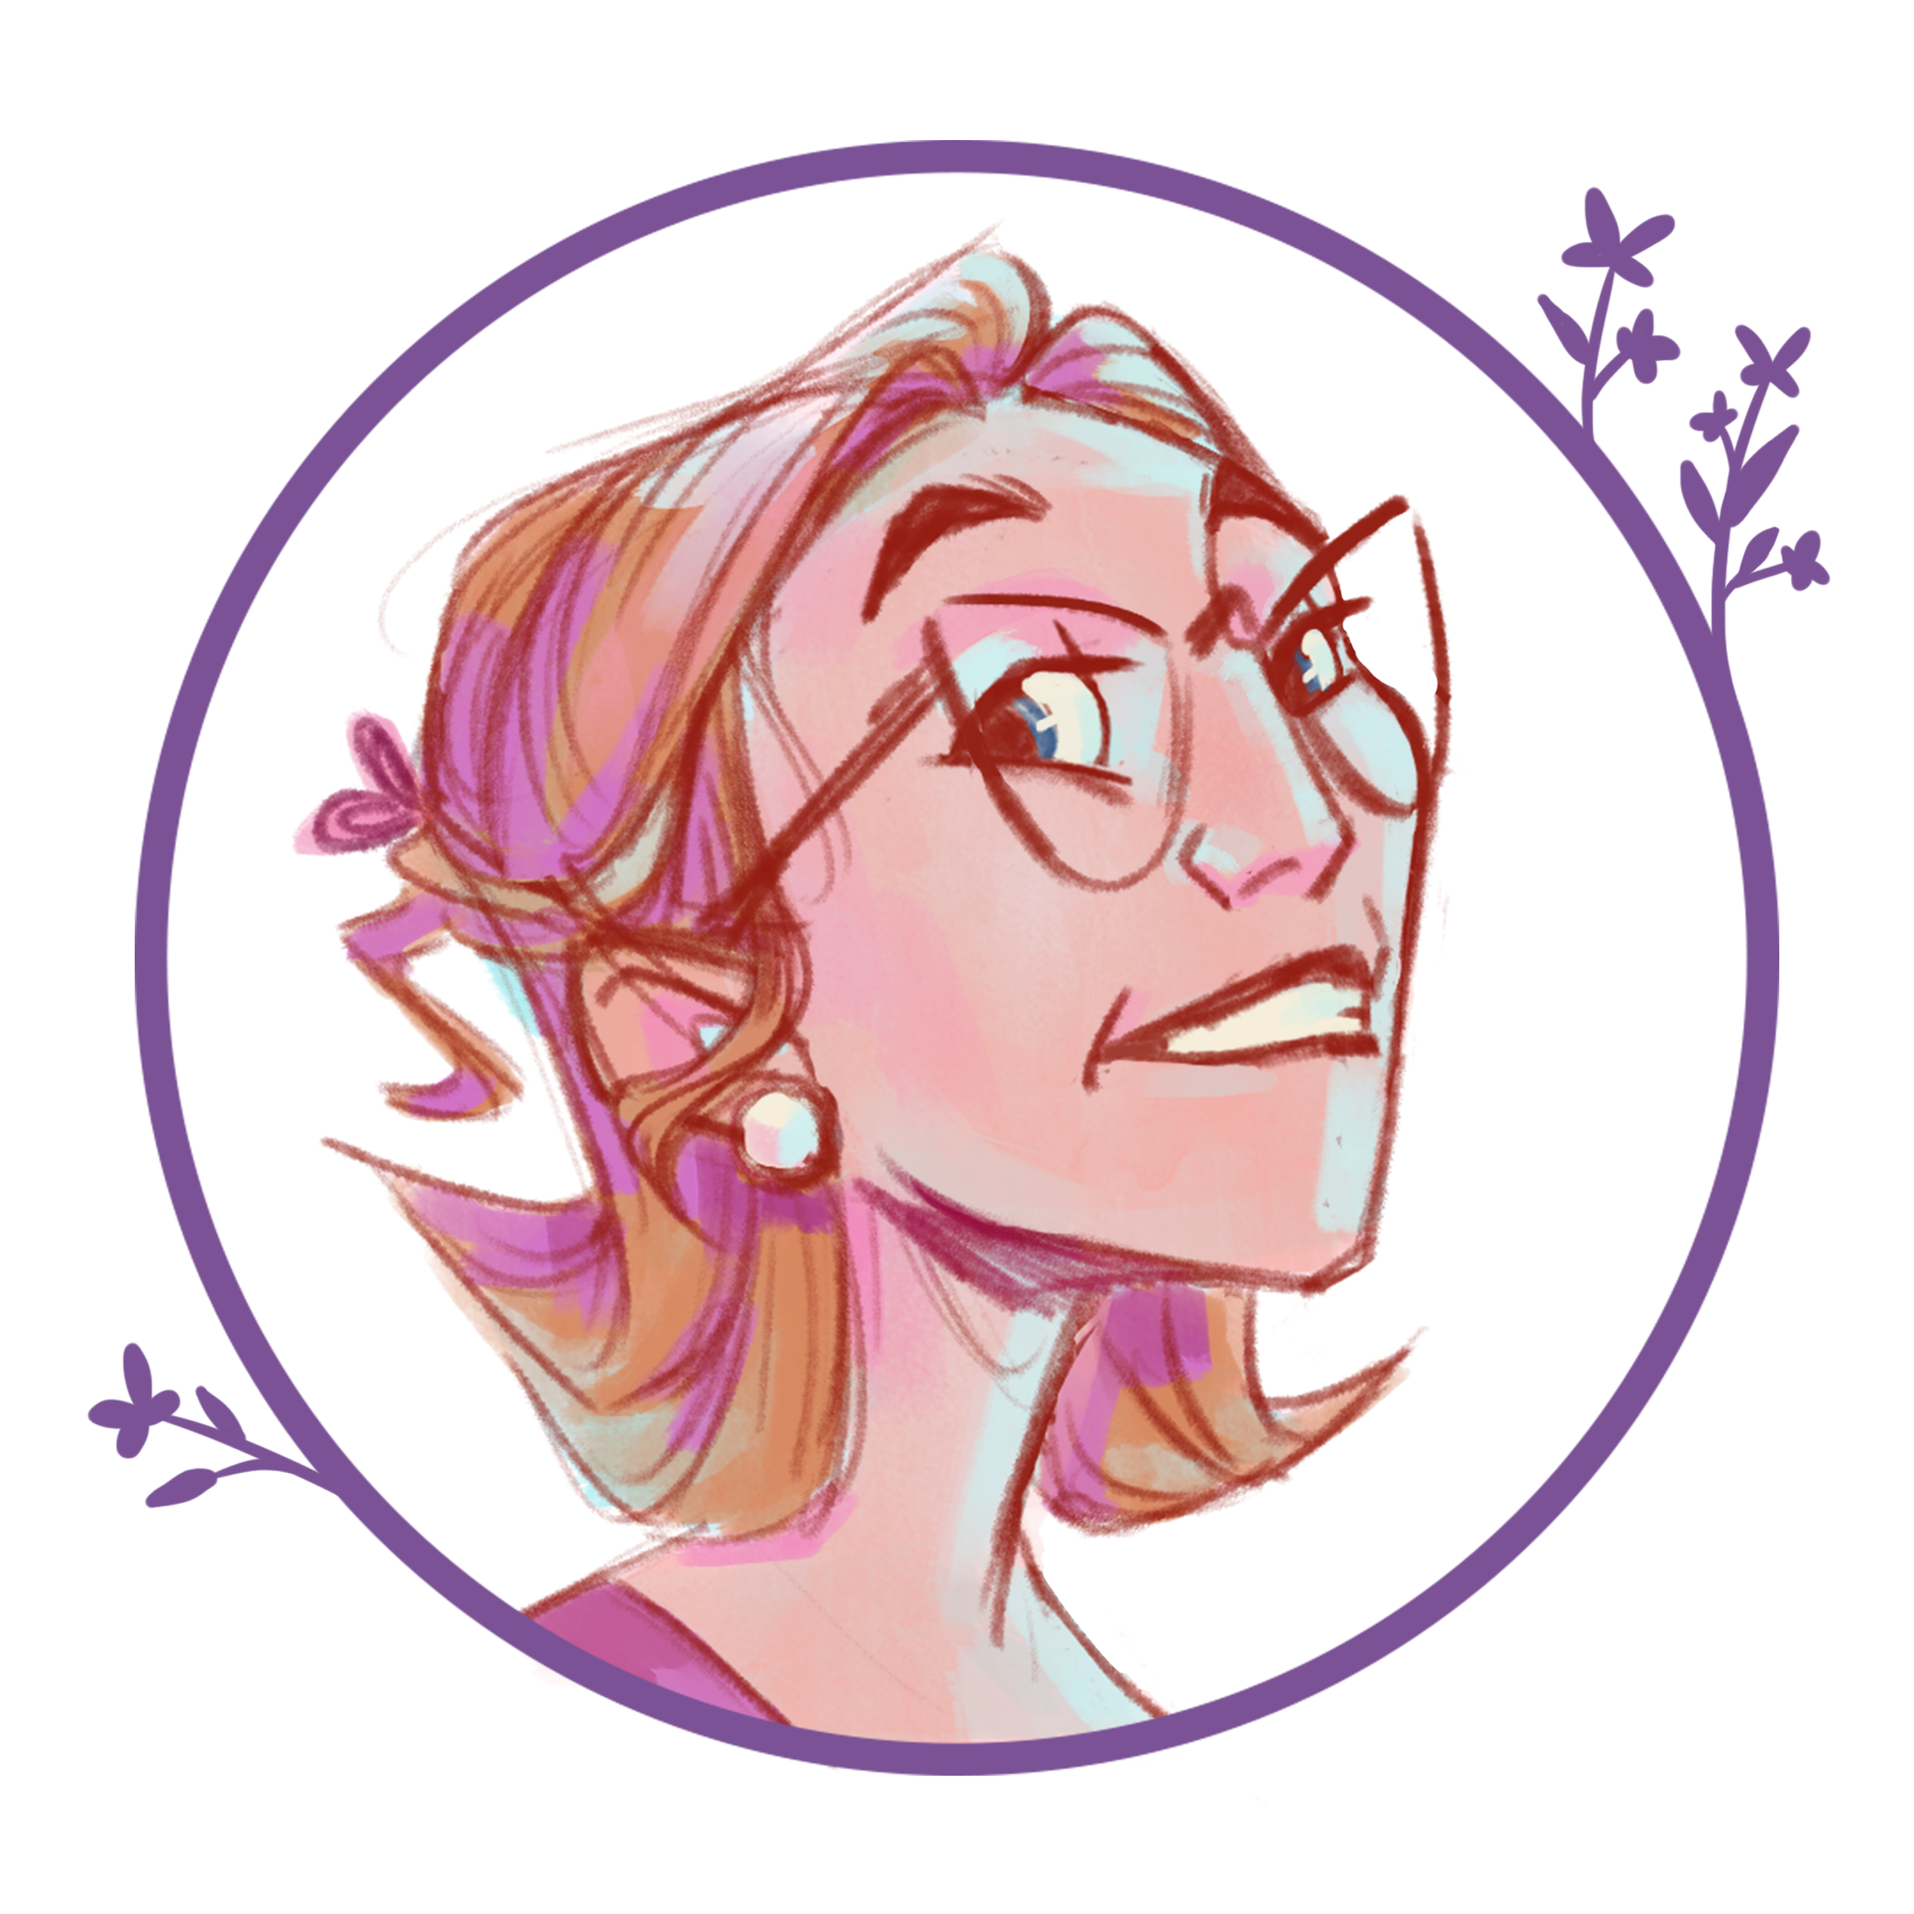
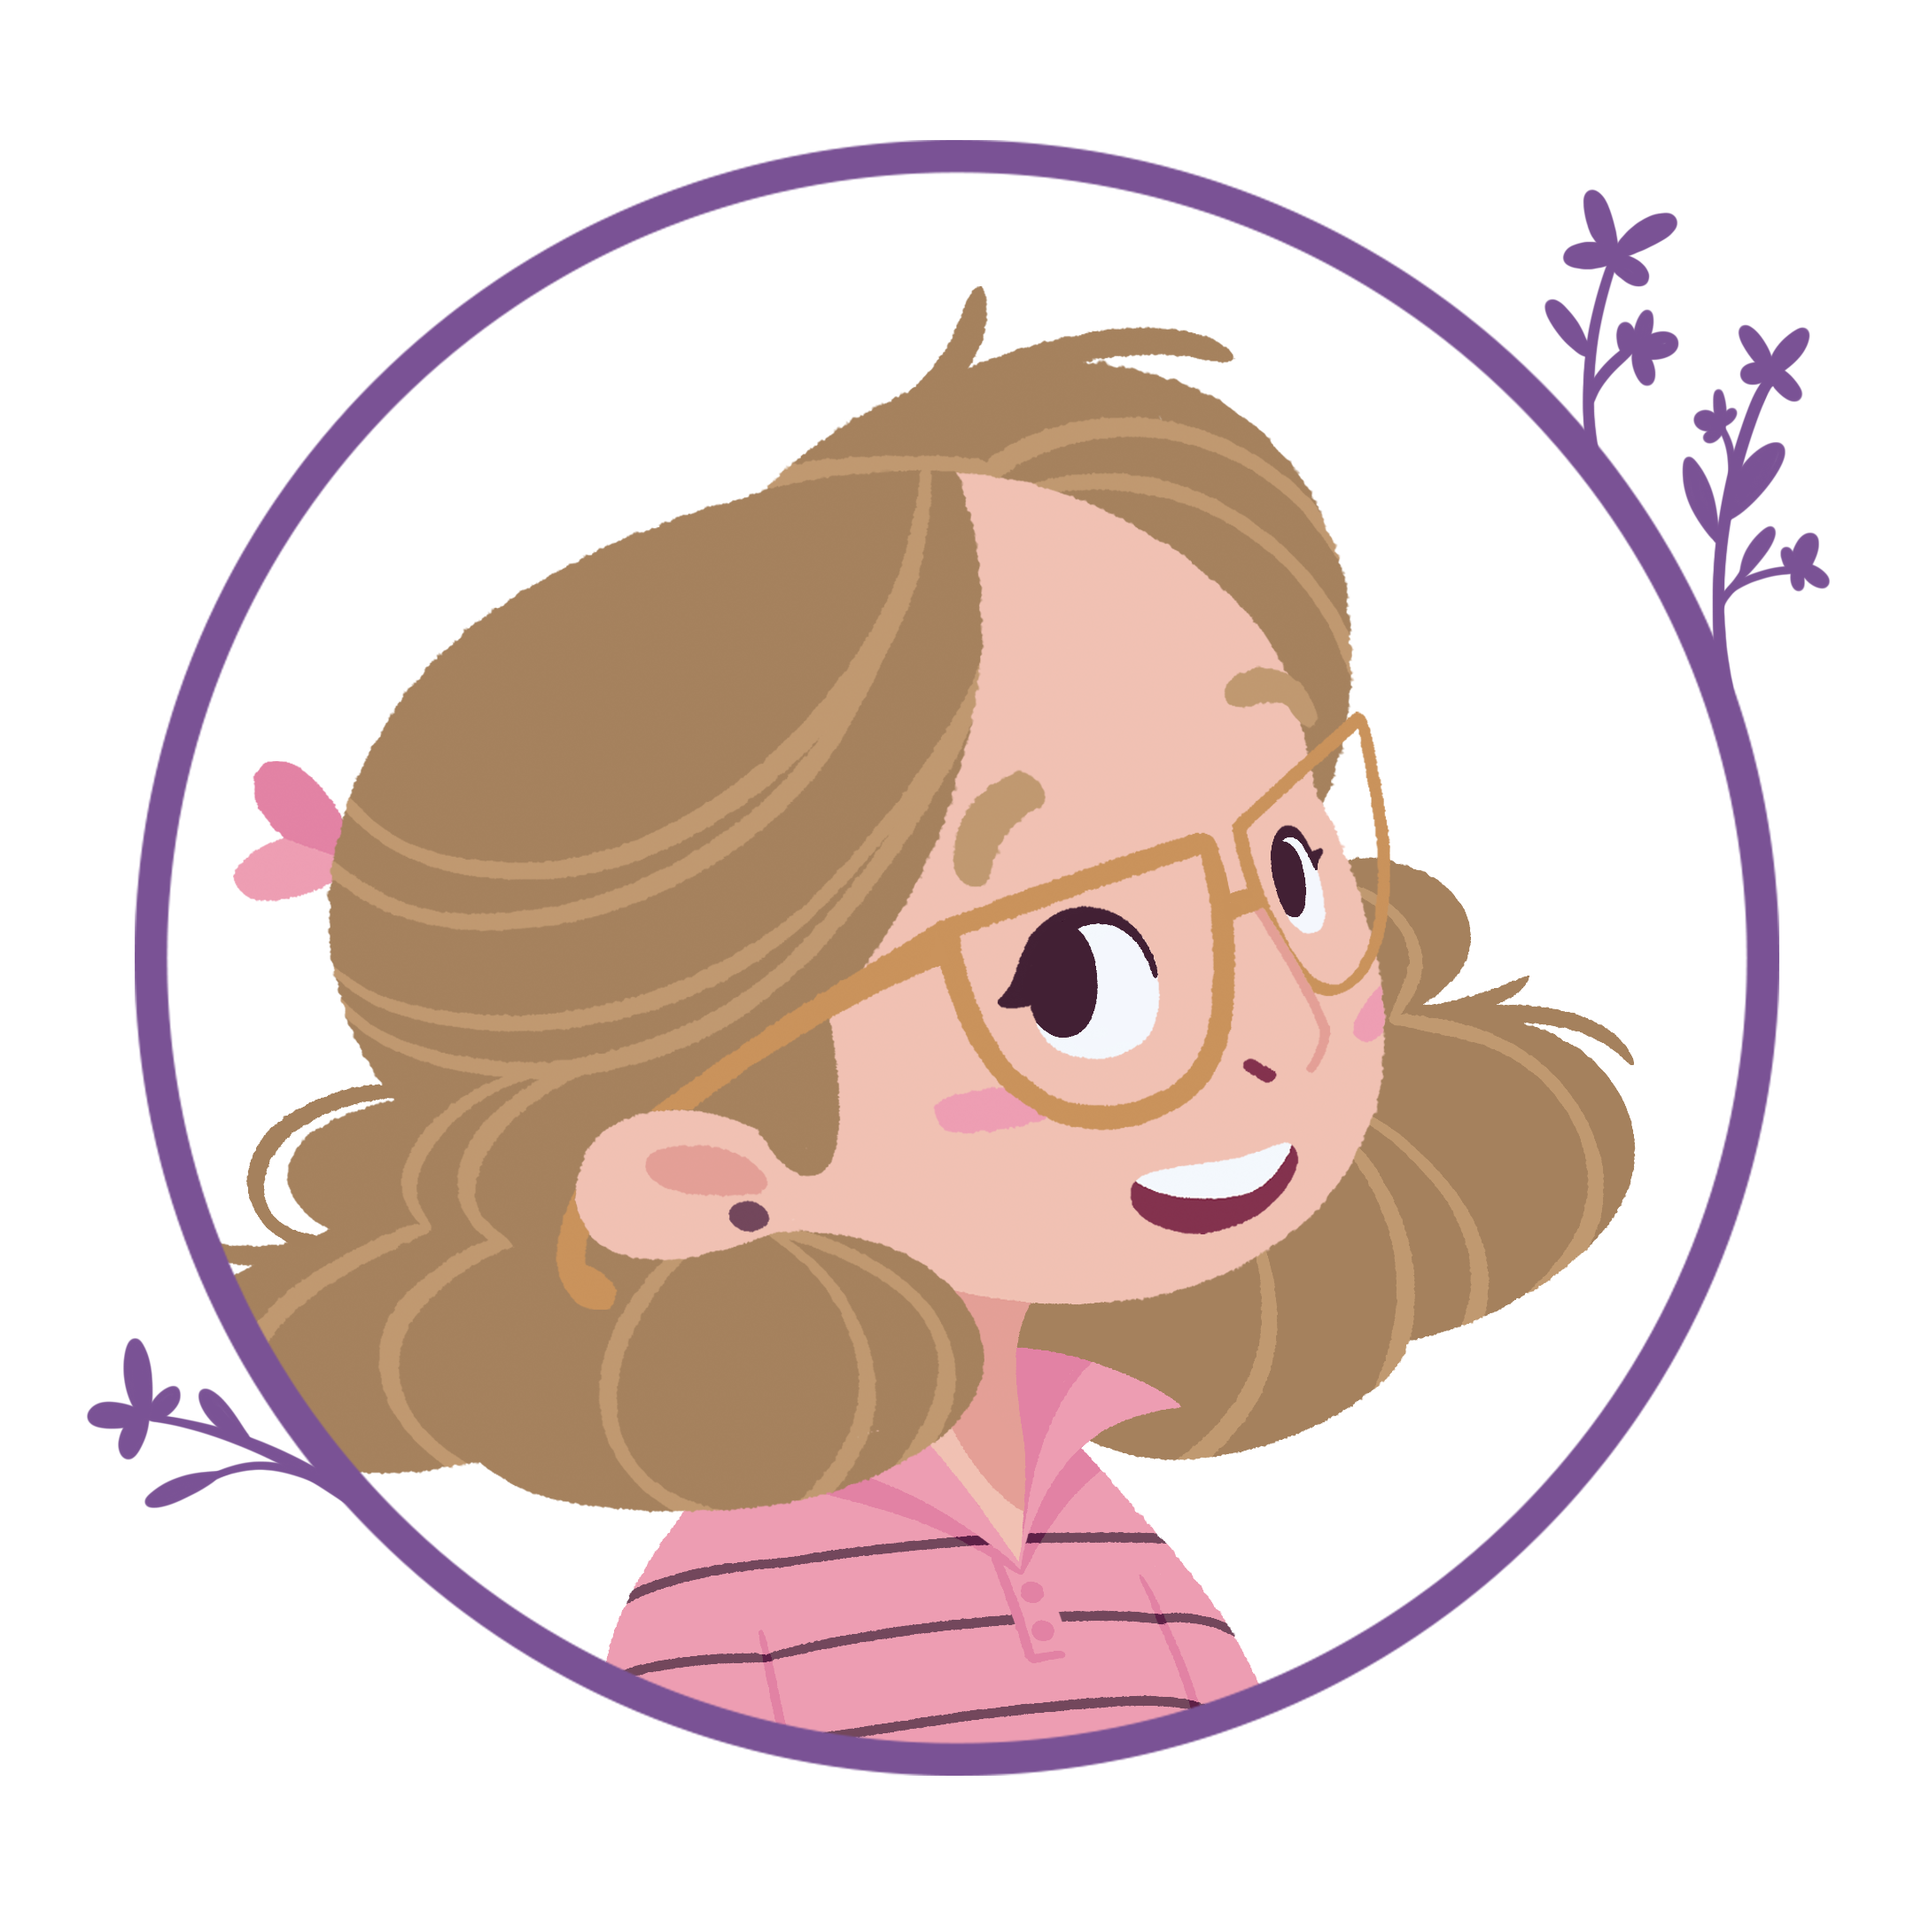
Content: update hero, portrait, weights

diff --git a/content/_index.md b/content/_index.md
@@ -2,7 +2,7 @@
 title: Ella Wallin
 linktitle: Return Home
 thumb: images/home-thumb.png
-hero: images/home-hero.png
+hero: images/20260303-sigtuna.png
 herolarge: true
 aliases: [/home, /portfolio, /featured]
 ---

diff --git a/content/illustrations/20251030-cat-empty-bowl.md b/content/illustrations/20251030-cat-empty-bowl.md
@@ -1,6 +1,7 @@
 ---
 hero: images/20251030-cat-empty-bowl.png
 completed: 2025-10-30
+hidden: true
 weight:
 featured:
 ---

diff --git a/content/illustrations/20260330-birthday-party.md b/content/illustrations/20260330-birthday-party.md
@@ -1,6 +1,6 @@
 ---
 hero: images/20260330-birthday-party.png
 completed: 2026-03-30
-weight: 1
+weight:
 featured:
 ---

diff --git a/content/illustrations/20260406-krokodil-i-bil.md b/content/illustrations/20260406-krokodil-i-bil.md
@@ -1,6 +1,6 @@
 ---
 hero: images/20260406-krokodil-i-bil.png
 completed: 2026-04-06
-weight:
+weight: 2
 featured:
 ---

diff --git a/content/illustrations/20250707-peacock-crane.md b/content/illustrations/20250707-peacock-crane.md
@@ -1,6 +1,6 @@
 ---
 hero: images/20250707-peacock-crane.png
 completed: 2025-07-07
-weight:
+weight: 1
 featured:
 ---

diff --git a/content/illustrations/20250825-heron-1.md b/content/illustrations/20250825-heron-1.md
@@ -1,6 +1,6 @@
 ---
 hero: images/20250825-heron-1.png
 completed: 2025-08-25
-weight: 2
+weight: 1
 featured:
 ---

diff --git a/content/illustrations/20250825-heron-2.md b/content/illustrations/20250825-heron-2.md
@@ -1,6 +1,6 @@
 ---
 hero: images/20250629-heron-2.png
 completed: 2025-08-25
-weight: 3
+weight: 1
 featured:
 ---
